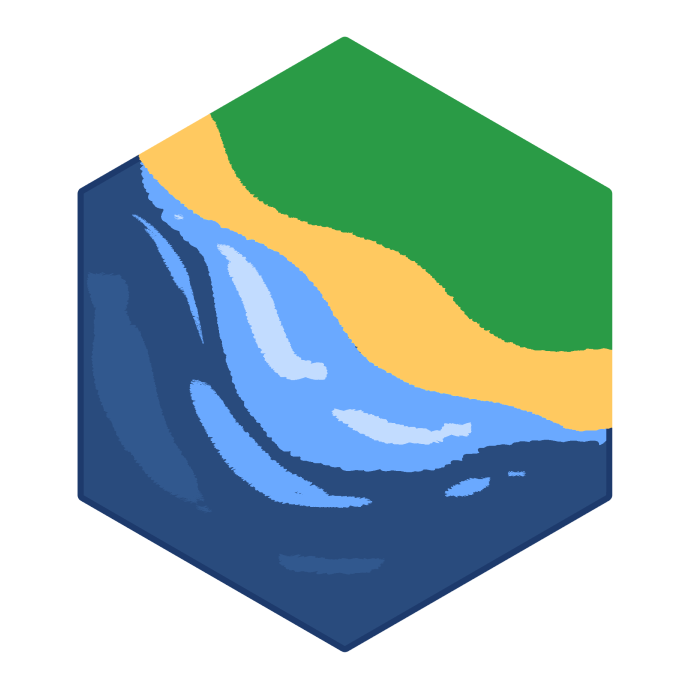
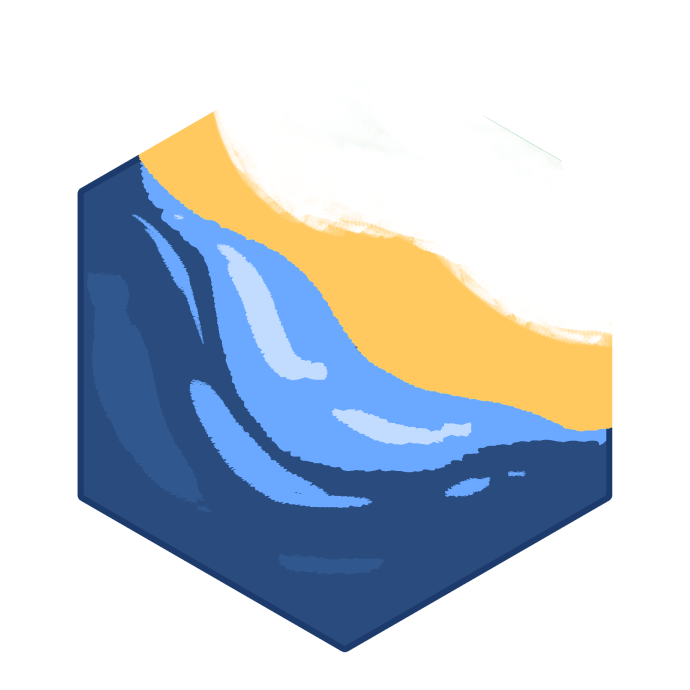
feat(mq): update graphics with transparent borders

Changed region(s): [[0.3043, 0.0304, 0.913, 0.5174]]

diff --git a/src/main/kotlin/sc/gui/AppStyle.kt b/src/main/kotlin/sc/gui/AppStyle.kt
@@ -183,7 +183,7 @@ class AppStyle: Stylesheet() {
             }
         }
         ".goal" { image = resources.url("/mq/fields/goal.png").toURI() }
-        ".fog" { image = resources.url("/mq/fields/fog.png").toURI() }
+        ".fog" { image = resources.url("/mq/fields/background/fog_tile.png").toURI() }
         
         ".island1" { image = resources.url("/mq/fields/islands/empty_island_A.png").toURI() }
         ".island2" { image = resources.url("/mq/fields/islands/empty_island_B.png").toURI() }
